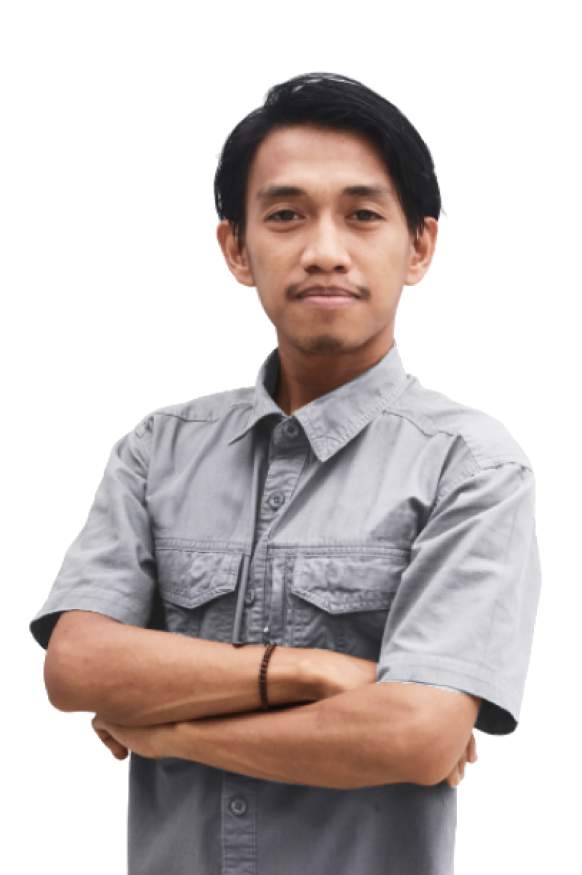
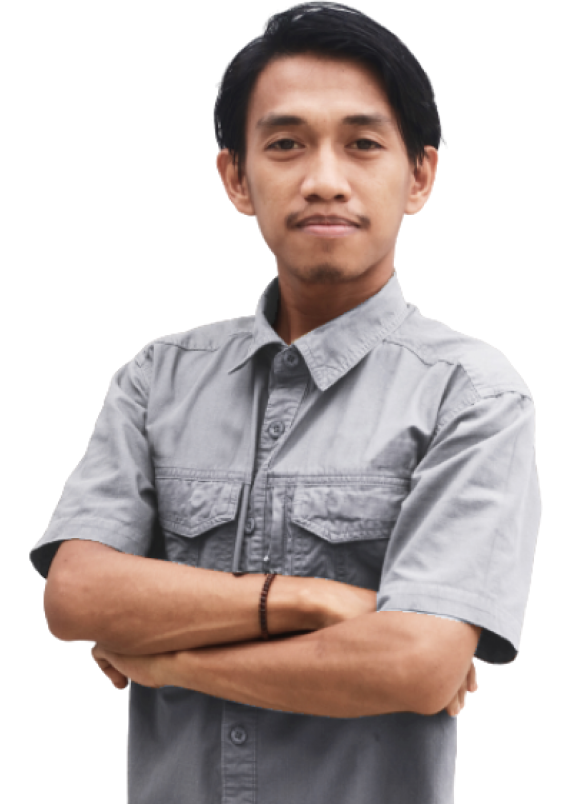
update files

diff --git a/src/container/Header/Header.jsx b/src/container/Header/Header.jsx
@@ -1,63 +1,91 @@
 import React from "react";
+import { IoMdDownload } from "react-icons/io";
 
-import { SocialMedia } from '../../components';
+import { SocialMedia } from "../../components";
 import { images } from "../../constants";
 
 const Header = () => {
+
   return (
-    <div className="uk-background-default uk-container uk-container-large" style={{paddingBottom:"70px"}}>
-      <div className="uk-flex uk-flex-middle uk-padding-small uk-animation-fade">
-        <img src={images.logo} alt="logo" style={{ height: "60px" }} className=""/>
-        <h4 className="uk-margin-small-left uk-align-center uk-text-bold">
-          Portfolio
-        </h4>
-      </div>
-      <div className="uk-flex uk-margin-medium-left uk-align-center">
-      <div>
-          <span className="uk-position-top-right">
-            <img
-              src={images.ellipse02}
-              style={{ height: "230px" }}
-              alt="ellipse02"
-            />
-          </span>
-          <span className="uk-position-center-left">
-            <img
-              src={images.ellipse01}
-              style={{ height: "370px" }}
-              alt="ellipse01"
-            />
-          </span>
-          <span className="uk-position-center uk-margin-xlarge-left uk-animation-fade">
-            <img src={images.decor01} alt="decoration01" className="uk-margin-xlarge-left"/>
-          </span>
-          <div
-            className="uk-position-right uk-margin-large-right uk-animation-slide-right-small" 
+    <>
+      <span className="uk-position-absolute" style={{ top: "100px" }}>
+        <img
+          src={images.ellipse01}
+          style={{ height: "370px" }}
+          alt="ellipse01"
+        />
+      </span>
+      <div className="uk-container uk-container-large uk-width-1-1">
+        <div className="uk-flex uk-flex-middle uk-padding-small uk-animation-fade">
+          <img src={images.logo} alt="logo" style={{ height: "60px" }} />
+          <h4 className="uk-margin-small-left uk-align-center uk-text-bold">
+            Portfolio
+          </h4>
+        </div>
+
+        <div className="uk-flex uk-margin-medium-left ">
+          <div className="uk-position-z-index uk-animation-slide-left-medium uk-width-1-2 ">
+            <h1
+              className="uk-text-bold uk-heading-small"
+              style={{ color: "#4585C5" }}
             >
-          <img
-            src={images.profile}
-            alt="profile"
-            style={{ height: "100vh" }}
-            />
+              Agung Azhari
+              <h2 className="uk-text-bold uk-margin-small-top">
+                UI/UX Designer
+              </h2>
+            </h1>
+            <p className="uk-margin-medium-top change-font" >
+              I'm interested in visuals that look simple and more white space
+              and a priority the functional of application product. I have
+              approximately more than 3 years of experience as graphic design
+              dealing with digital products, especially on user interfaces.
+            </p>
+            <p className="uk-text-bold uk-margin-large-top">Follow Me On</p>
+            <div>
+              <SocialMedia />
+            </div>
+            <div className="uk-margin-top">
+                <a href="../../assets/CV-TERBARU-2022.pdf" download target='_blank'>
+              <button
+                className="uk-button uk-button-primary "
+                style={{ borderRadius: "5px" }}
+              >
+                <IoMdDownload size={20} className="uk-margin-small-right" />{" "}
+                Download CV
+              </button>
+                </a>
+            </div>
+          </div>
+
+          <div className="uk-width-1-2">
+            <span className="uk-position-top-right">
+              <img
+                src={images.ellipse02}
+                style={{ height: "230px" }}
+                alt="ellipse02"
+              />
+            </span>
+
+            <span className="uk-position-center uk-margin-xlarge-left uk-animation-fade">
+              <img
+                src={images.decor01}
+                alt="decoration01"
+                className="uk-margin-large-left"
+              />
+            </span>
+            <div className="uk-flex uk-animation-slide-right-small uk-flex-right uk-margin-large-right">
+              <img
+                src={images.profile}
+                alt="profile"
+                style={{ height: "530px" }}
+              />
+            </div>
           </div>
         </div>
-        <div className="uk-position-z-index uk-animation-slide-left-medium">
-          <h1 className="uk-text-bold ">
-            Agung Azhari
-            <h1 className="uk-text-bold uk-heading-small">UI/UX Designer</h1>
-          </h1>
-          <p className="uk-width-1-2 uk-margin-medium-top">
-            I'm interested in visuals that look simple and more white space and
-            a priority the functional of application product. I have
-            approximately more than 3 years of experience as graphic design
-            dealing with digital products, especially on user interfaces.
-          </p>
-          <p className="uk-text-bold uk-margin-large-top">Follow Me On</p>
-           <SocialMedia />
-        </div>
       </div>
-    </div>
+    </>
   );
 };
 
 export default Header;
+

diff --git a/src/container/Exploration/Exploration.jsx b/src/container/Exploration/Exploration.jsx
@@ -18,9 +18,9 @@ const Exploration = () => {
           <h1 className="uk-text-bold">Exploration Design</h1>
         </div>
 
-        <div className=" uk-flex uk-grid-small uk-grid-match uk-margin-medium-top" style={{ height: 380 }} uk-grid>
+        <div className=" uk-flex uk-grid-small uk-grid-match uk-margin-medium-top" >
           <div
-            className="uk-width-2xlarge uk-overflow-hidden uk-margin-small-right uk-transition-toggle"
+            className="uk-width-2xlarge uk-margin-small-right uk-transition-toggle"
           >
             <img
               src={images.exploration01}
@@ -28,7 +28,7 @@ const Exploration = () => {
               className="uk-transition-scale-up uk-transition-opaque"
             />
           </div>
-          <div className="uk-width-1-3 uk-overflow-hidden uk-transition-toggle">
+          <div className="uk-width-1-2 uk-transition-toggle">
             <img
               src={images.exploration02}
               alt="exploration02"
@@ -37,9 +37,9 @@ const Exploration = () => {
           </div>
         </div>
 
-        <div className=" uk-flex uk-grid-small uk-grid-match uk-margin-medium-top" style={{ height: 380 }} uk-grid>
+        <div className=" uk-flex uk-grid-small uk-grid-match uk-margin-medium-top" >
           <div
-            className="uk-width-1-3 uk-overflow-hidden uk-margin-small-right uk-transition-toggle"
+            className="uk-width-1-2 uk-margin-small-right uk-transition-toggle"
           >
             <img
               src={images.exploration03}
@@ -47,7 +47,7 @@ const Exploration = () => {
               className="uk-transition-scale-up uk-transition-opaque"
             />
           </div>
-          <div className="uk-width-2xlarge uk-overflow-hidden uk-transition-toggle">
+          <div className="uk-width-2xlarge uk-transition-toggle">
             <img
               src={images.exploration04}
               alt="exploration04"
@@ -72,9 +72,9 @@ const Exploration = () => {
           />
         </div>
 
-        <div className=" uk-flex uk-grid-small uk-grid-match uk-margin-medium-top" style={{ height: 380 }} uk-grid>
+        <div className=" uk-flex uk-grid-small uk-grid-match uk-margin-medium-top" >
           <div
-            className="uk-width-2xlarge uk-overflow-hidden uk-margin-small-right uk-transition-toggle"
+            className="uk-width-2xlarge  uk-margin-small-right uk-transition-toggle"
           >
             <img
               src={images.exploration06}
@@ -82,7 +82,7 @@ const Exploration = () => {
               className="uk-transition-scale-up uk-transition-opaque"
             />
           </div>
-          <div className="uk-width-1-3 uk-overflow-hidden uk-transition-toggle">
+          <div className="uk-width-1-2 uk-transition-toggle">
             <img
               src={images.exploration07}
               alt="exploration07"
@@ -91,9 +91,9 @@ const Exploration = () => {
           </div>
         </div>
 
-        <div className=" uk-flex uk-grid-small uk-grid-match uk-margin-medium-top" style={{height:380}} uk-grid>
+        <div className=" uk-flex uk-grid-small uk-grid-match uk-margin-medium-top" >
           <div
-            className="uk-width-1-3 uk-overflow-hidden uk-margin-small-right uk-transition-toggle"
+            className="uk-width-1-2 uk-margin-small-right uk-transition-toggle"
           >
             <img
               src={images.exploration08}
@@ -101,7 +101,7 @@ const Exploration = () => {
               className="uk-transition-scale-up uk-transition-opaque"
             />
           </div>
-          <div className="uk-width-2xlarge uk-overflow-hidden uk-transition-toggle">
+          <div className="uk-width-2xlarge uk-transition-toggle">
             <img
               src={images.exploration09}
               alt="exploration09"

diff --git a/src/index.css b/src/index.css
@@ -1,7 +1,7 @@
-@import url('https://fonts.googleapis.com/css2?family=Fredoka&family=Noto+Sans+JP:wght@300&family=Outfit:wght@100;500;600;700;800;900&family=Playfair+Display:ital,wght@0,400;0,500;0,600;0,700;0,800;0,900;1,400;1,500;1,600;1,700;1,800;1,900&family=Poppins:ital,wght@0,100;0,200;0,300;0,400;0,500;0,600;0,700;0,800;0,900;1,100;1,200;1,300;1,400;1,500;1,600;1,700;1,800;1,900&display=swap');
+@import url('https://fonts.googleapis.com/css2?family=Manrope:wght@200;300;400;500;600;700;800&family=Playfair+Display:ital,wght@0,400;0,500;0,600;0,700;0,800;0,900;1,400;1,500;1,600;1,700;1,800;1,900&family=Poppins:ital,wght@0,100;0,200;0,300;0,400;0,500;0,600;0,700;0,800;0,900;1,100;1,200;1,300;1,400;1,500;1,600;1,700;1,800;1,900&display=swap');
 
 :root {
-  --font-base: "Playfair Display", serif;
+  --font-base: "Manrope", sans-serif;
 
   --primary-color: #edf2f8;
   --secondary-color: #313bac;
@@ -18,4 +18,8 @@
   padding: 0;
   margin: 0;
   scroll-behavior: smooth;
+}
+
+.change-font {
+  font-family: "Manrope", sans-serif !important;
 }

diff --git a/src/container/Project/Project.jsx b/src/container/Project/Project.jsx
@@ -6,13 +6,13 @@ const Project = () => {
   return (
     <div
       className="uk-padding-large"
-      style={{ marginTop: "32px", background: "#F1F7FC" }}
+      style={{  background: "#F1F7FC" }}
     >
       <p className="uk-text-muted uk-text-bold uk-animation-slide-left-small">Juli 2022</p>
       <div className="uk-flex uk-flex-between uk-margin-small-bottom">
         <div className="uk-width-3-5 uk-animation-slide-left-small">
           <h2 className="uk-text-bold">PT. Bumi Makmur Mandiri Utama</h2>
-          <p>
+          <p className="change-font">
             BUMA BRV (Bisa Ruang Vokasi) merupakan aplikasi LMS (Learning
             Management Sistem) yang betujuan untuk meningkatkan kualiatas
             kompetensi lulusan SMK/SMA sederajat agar sesuai dengan kebutuhan

diff --git a/public/index.html b/public/index.html
@@ -2,7 +2,7 @@
 <html lang="en">
   <head>
     <meta charset="utf-8" />
-    <link rel="icon" href="./profile.png" />
+    <link rel="icon" href="./logo.png" />
     <meta name="viewport" content="width=device-width, initial-scale=1" />
     <meta name="theme-color" content="#000000" />
     <meta
